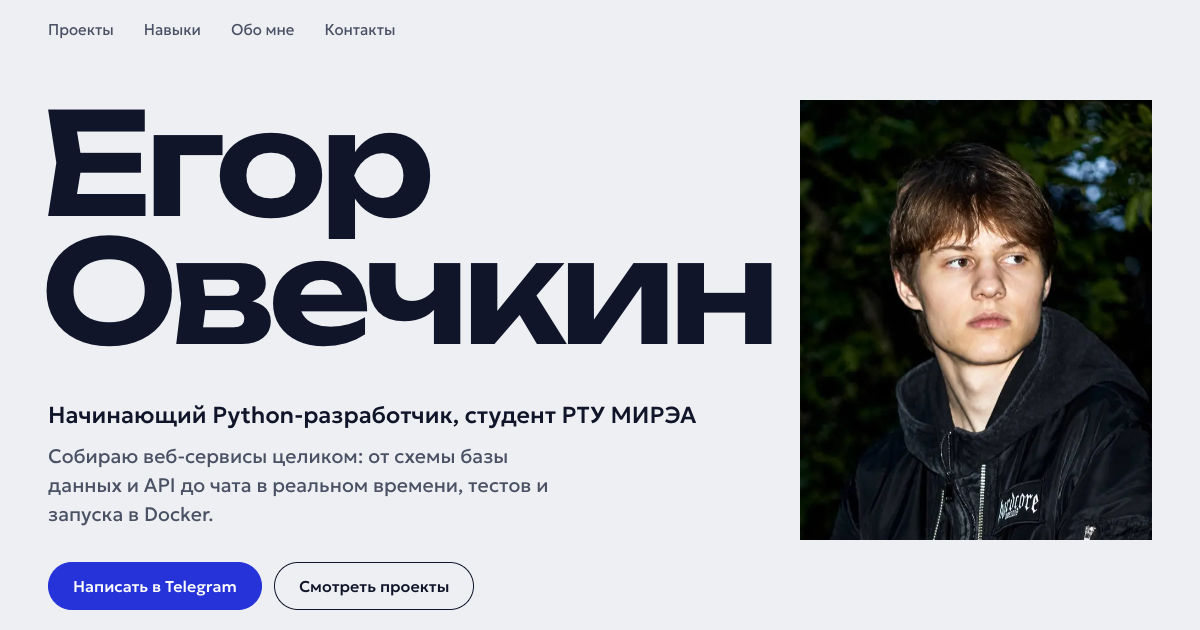
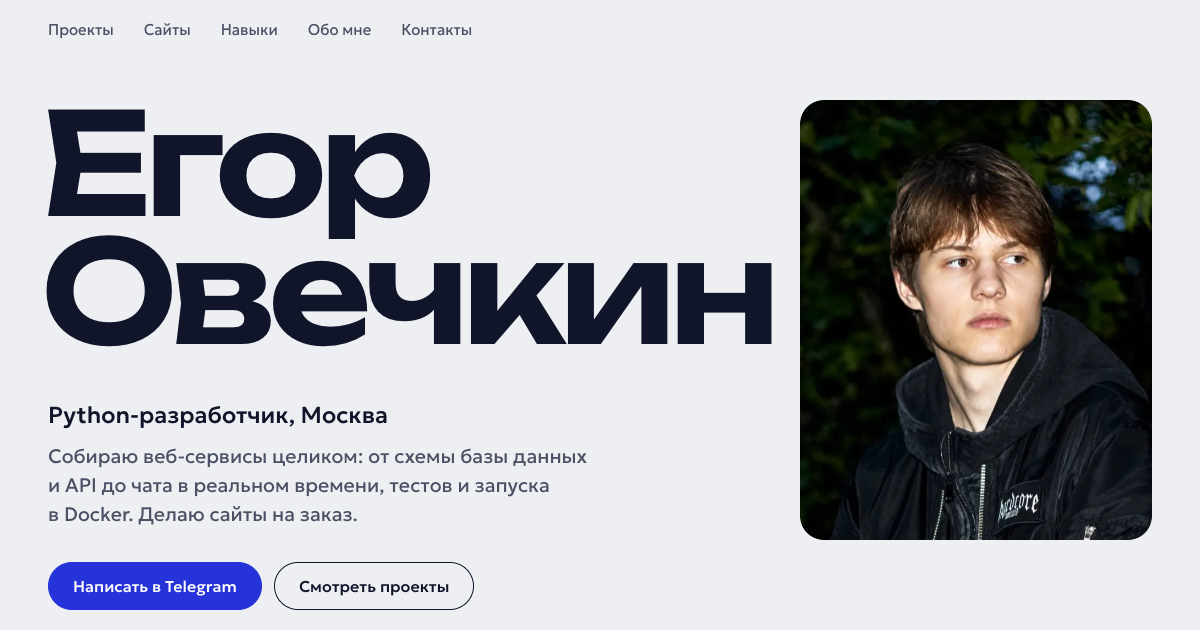
copy: position as Python developer, drop student and job-seeking lines

diff --git a/index.html b/index.html
@@ -3,8 +3,8 @@
 <head>
   <meta charset="utf-8">
   <meta name="viewport" content="width=device-width, initial-scale=1, viewport-fit=cover">
-  <title>Егор Овечкин — начинающий Python-разработчик</title>
-  <meta name="description" content="Егор Овечкин, начинающий Python-разработчик и студент РТУ МИРЭА. Веб-сервисы на FastAPI и PostgreSQL, главный проект — платформа Saturn. Делаю сайты на заказ.">
+  <title>Егор Овечкин, Python-разработчик</title>
+  <meta name="description" content="Егор Овечкин, Python-разработчик из Москвы. Веб-сервисы на FastAPI и PostgreSQL, главный проект — платформа Saturn. Делаю сайты на заказ.">
   <meta name="theme-color" content="#EDEFF2">
   <link rel="canonical" href="https://egkodin.github.io/resume/">
   <link rel="icon" href="favicon.svg" type="image/svg+xml">
@@ -12,7 +12,7 @@
   <meta property="og:type" content="profile">
   <meta property="og:locale" content="ru_RU">
   <meta property="og:url" content="https://egkodin.github.io/resume/">
-  <meta property="og:title" content="Егор Овечкин — начинающий Python-разработчик">
+  <meta property="og:title" content="Егор Овечкин, Python-разработчик">
   <meta property="og:description" content="Веб-сервисы на FastAPI и PostgreSQL. Главный проект — Saturn: чат в реальном времени, ИИ-редактор, тесты и Docker.">
   <meta property="og:image" content="https://egkodin.github.io/resume/assets/img/og.png">
   <meta property="og:image:width" content="1200">
@@ -48,7 +48,7 @@
           <span class="line"><span>Егор</span></span>
           <span class="line"><span>Овечкин</span></span>
         </h1>
-        <p class="hero__role">Начинающий Python-разработчик, студент РТУ МИРЭА</p>
+        <p class="hero__role">Python-разработчик, Москва</p>
         <p class="hero__lede">Собираю веб-сервисы целиком: от схемы базы данных и API до чата в&nbsp;реальном времени, тестов и запуска в&nbsp;Docker. Делаю сайты на заказ.</p>
         <div class="hero__actions">
           <a class="btn btn--primary" href="https://t.me/egor_kodin">Написать в Telegram</a>
@@ -278,15 +278,15 @@
     <section id="about" class="about" aria-labelledby="about-title">
       <h2 class="section-title" id="about-title">Обо мне</h2>
       <div class="about__text">
-        <p>Учусь на бакалавриате РТУ МИРЭА (2025–2029) и живу в Москве. Программирую со школы: начинал с сайтов и настольных программ, сейчас пишу серверные приложения на Python.</p>
+        <p>Живу в Москве, пишу код с 2020 года. Начинал с сайтов и настольных программ, сейчас делаю серверные приложения на Python и сайты под ключ.</p>
       </div>
-      <div class="about__seek">
-        <h3>Ищу стажировку или первую работу</h3>
+      <div class="about__work">
+        <h3>Чем занимаюсь</h3>
         <ul>
-          <li>Python-разработка</li>
-          <li>Тестирование</li>
-          <li>Аналитика данных</li>
-          <li>Техническая поддержка</li>
+          <li>Backend на Python</li>
+          <li>Базы данных и API</li>
+          <li>Сайты под ключ</li>
+          <li>Тесты и CI</li>
         </ul>
       </div>
 
@@ -298,7 +298,7 @@
             <li style="--c:2"><span class="timeline__dots" aria-hidden="true"><i style="--i:0"></i></span><b class="timeline__label">2022</b><ul class="timeline__list"><li>Сервер портала на Go</li></ul></li>
             <li style="--c:3"><span class="timeline__dots" aria-hidden="true"><i style="--i:0"></i></span><b class="timeline__label">2023</b><ul class="timeline__list"><li>gpt-free.ru</li></ul></li>
             <li style="--c:4"><span class="timeline__dots" aria-hidden="true"></span><b class="timeline__label">2024</b><p class="timeline__list"><span aria-hidden="true">—</span><span class="visually-hidden">нет проектов</span></p></li>
-            <li style="--c:5"><span class="timeline__dots" aria-hidden="true"><i class="is-milestone" style="--i:0"></i></span><b class="timeline__label">2025</b><ul class="timeline__list"><li class="is-milestone">Поступил в РТУ МИРЭА</li></ul></li>
+            <li style="--c:5"><span class="timeline__dots" aria-hidden="true"></span><b class="timeline__label">2025</b><p class="timeline__list"><span aria-hidden="true">—</span><span class="visually-hidden">нет проектов</span></p></li>
             <li style="--c:6"><span class="timeline__dots" aria-hidden="true"><i style="--i:0"></i><i style="--i:1"></i><i style="--i:2"></i><i style="--i:3"></i><i style="--i:4"></i><i style="--i:5"></i><i style="--i:6"></i><i style="--i:7"></i><i style="--i:8"></i></span><b class="timeline__label">2026</b><ul class="timeline__list"><li>Saturn</li><li>OxiGram</li><li>Taglet</li><li>Asterframe</li><li>FRAME/01</li><li>Светослед</li><li>СпортАкадемКлуб</li><li>СЛОЙ</li><li>ДФК «Спартак»</li></ul></li>
           </ol>
         </figure>

diff --git a/assets/styles.css b/assets/styles.css
@@ -421,13 +421,13 @@ a:hover { text-decoration-color: var(--blue); color: var(--blue); }
 
 /* About */
 .about__text p { font-size: clamp(1.125rem, 1rem + 0.5vw, 1.375rem); line-height: 1.5; max-width: 34rem; }
-.about__seek h3 { font-size: 1rem; font-weight: 500; color: var(--ink-2); }
-.about__seek ul { margin-top: 0.75rem; }
-.about__seek li { padding-block: 0.625rem; border-top: 1px solid var(--rule); font-weight: 500; }
-.about__seek li:last-child { border-bottom: 1px solid var(--rule); }
+.about__work h3 { font-size: 1rem; font-weight: 500; color: var(--ink-2); }
+.about__work ul { margin-top: 0.75rem; }
+.about__work li { padding-block: 0.625rem; border-top: 1px solid var(--rule); font-weight: 500; }
+.about__work li:last-child { border-bottom: 1px solid var(--rule); }
 @media (min-width: 900px) {
   .about__text { grid-column: 4 / 9; }
-  .about__seek { grid-column: 10 / 13; }
+  .about__work { grid-column: 10 / 13; }
 }
 
 /* Contact */
@@ -474,9 +474,7 @@ a:hover { text-decoration-color: var(--blue); color: var(--blue); }
   border: var(--wire) solid var(--blue); background: var(--paper);
   transition: scale 0.35s var(--ease-out) calc(var(--c) * 70ms + var(--i) * 45ms);
 }
-.timeline__dots i.is-milestone { background: var(--blue); border-radius: 2px; }
 .timeline__list { grid-column: 2; display: flex; flex-wrap: wrap; gap: 0.125rem 0.875rem; font-size: 0.9375rem; color: var(--ink-2); }
-.timeline__list .is-milestone { color: var(--ink); font-weight: 500; }
 .timeline.is-pending .timeline__dots i { scale: 0; }
 
 @media (min-width: 900px) {
